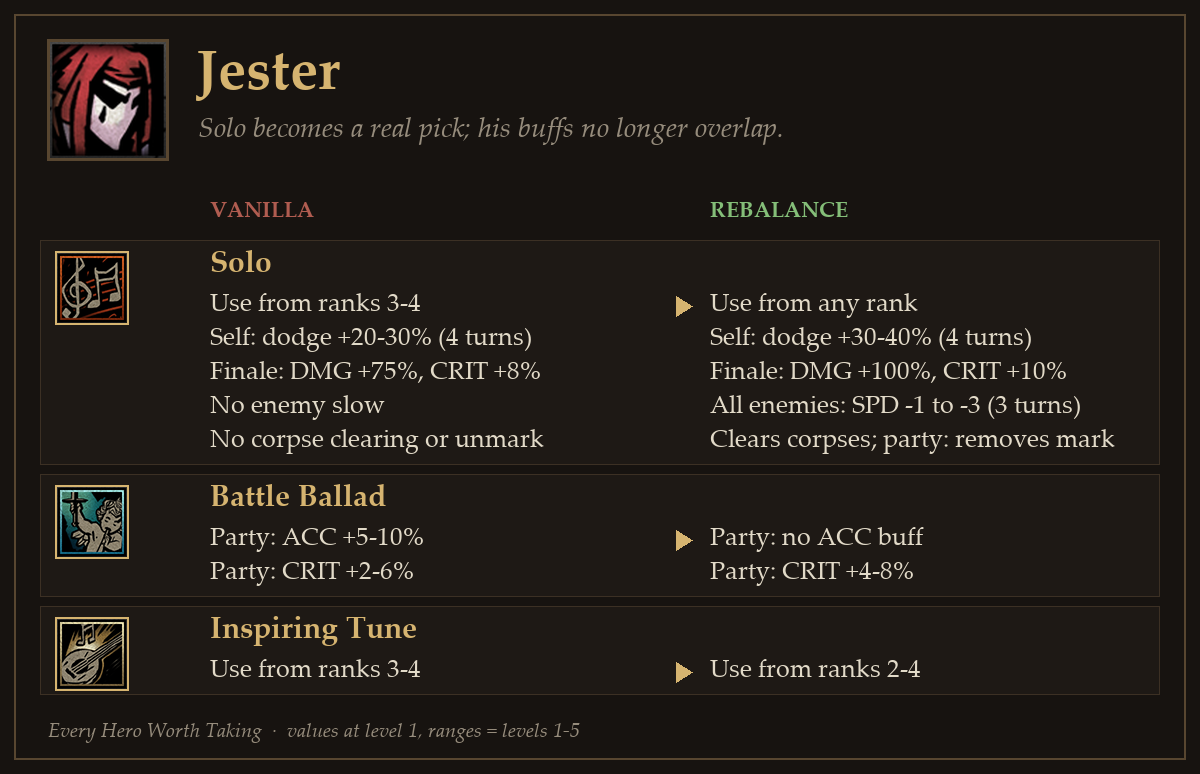
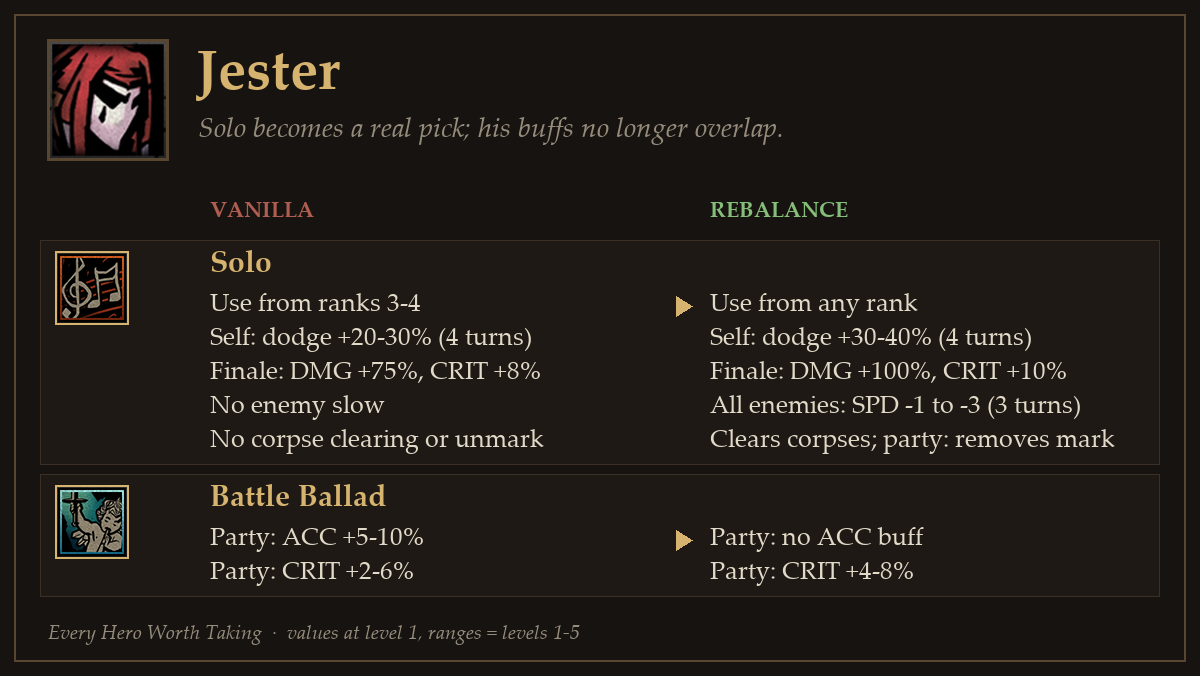
fix(jester): restore Inspiring Tune use from ranks 3 and 4

diff --git a/design/changes/jester.md b/design/changes/jester.md
@@ -419,3 +419,8 @@
 
 ### JES-014 격려의 선율 3열 전용 (2026-10-29, test)
 - 제작자 원문: "광대 스트레스 힐 3열에서만 되게 수정". 사용 열 2/3/4 → 3(바닐라 3/4). JES-003의 2열 사용을 대체한다. 이유는 원문에 따로 적혀 있지 않다.
+
+### JES-015 격려의 선율 3·4열 사용 복원 (2026-11-03)
+- 사용자 원문: "광대 스트레스 회복 3열에서만 쓰는게 아니라 3,4열로 바꿔"
+- 사용열 3 → 3·4, 전 레벨 적용. 2열 사용은 복구하지 않으며 회복량과 모든 효과는 유지한다. JES-014의 3열 전용 제한을 대체한다.
+- 개발본 및 로컬 구독 설치본 동기화. 공개 창작마당 배포와 별개다.
